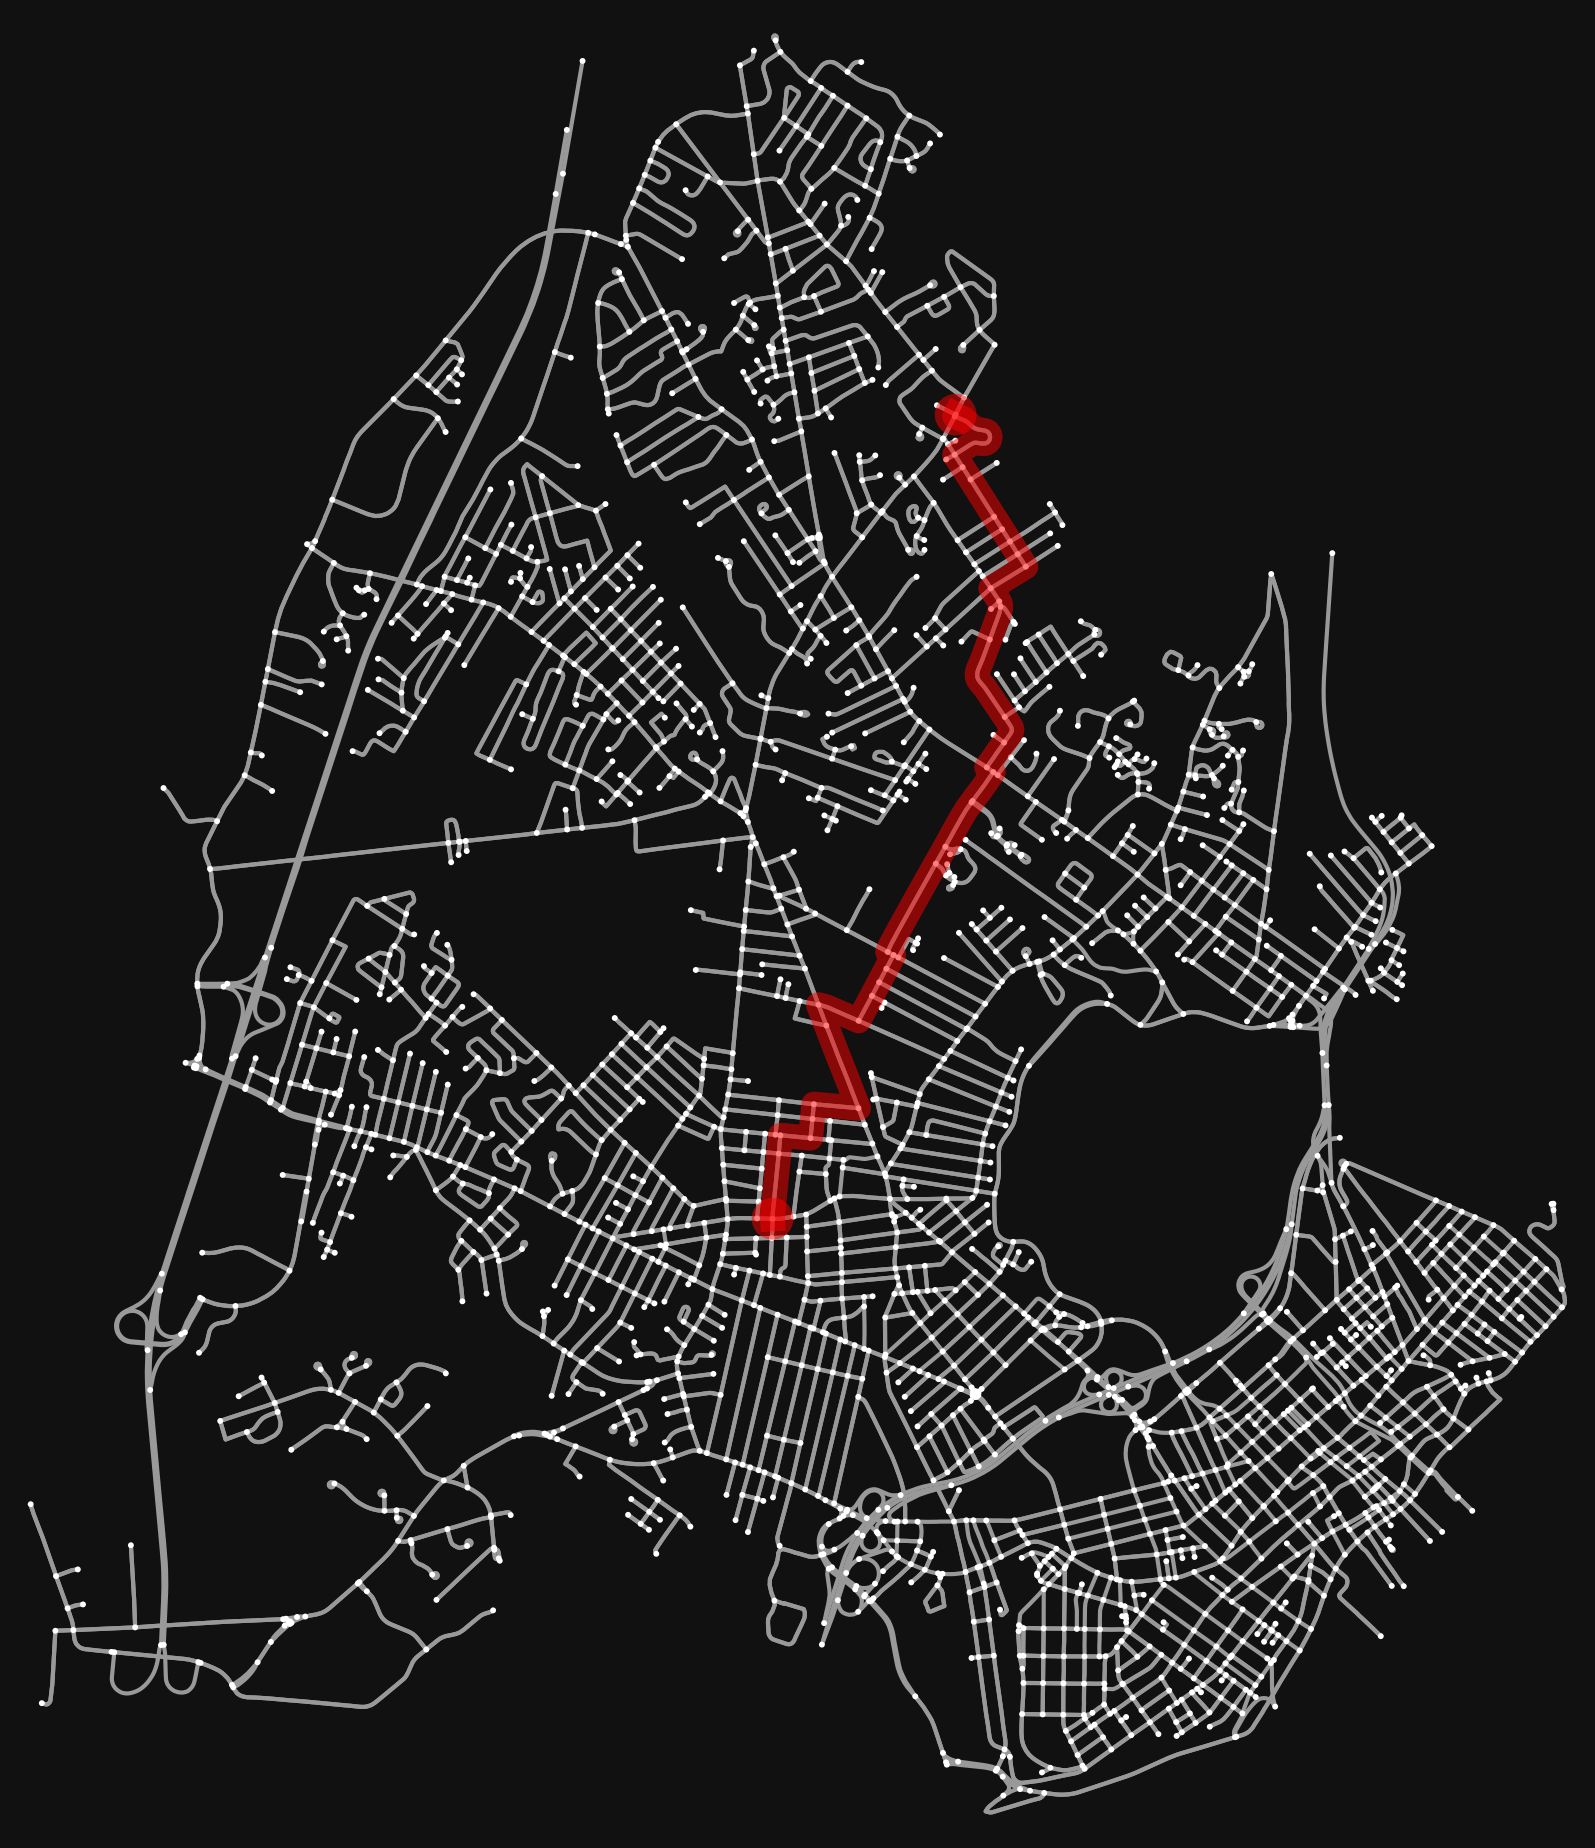
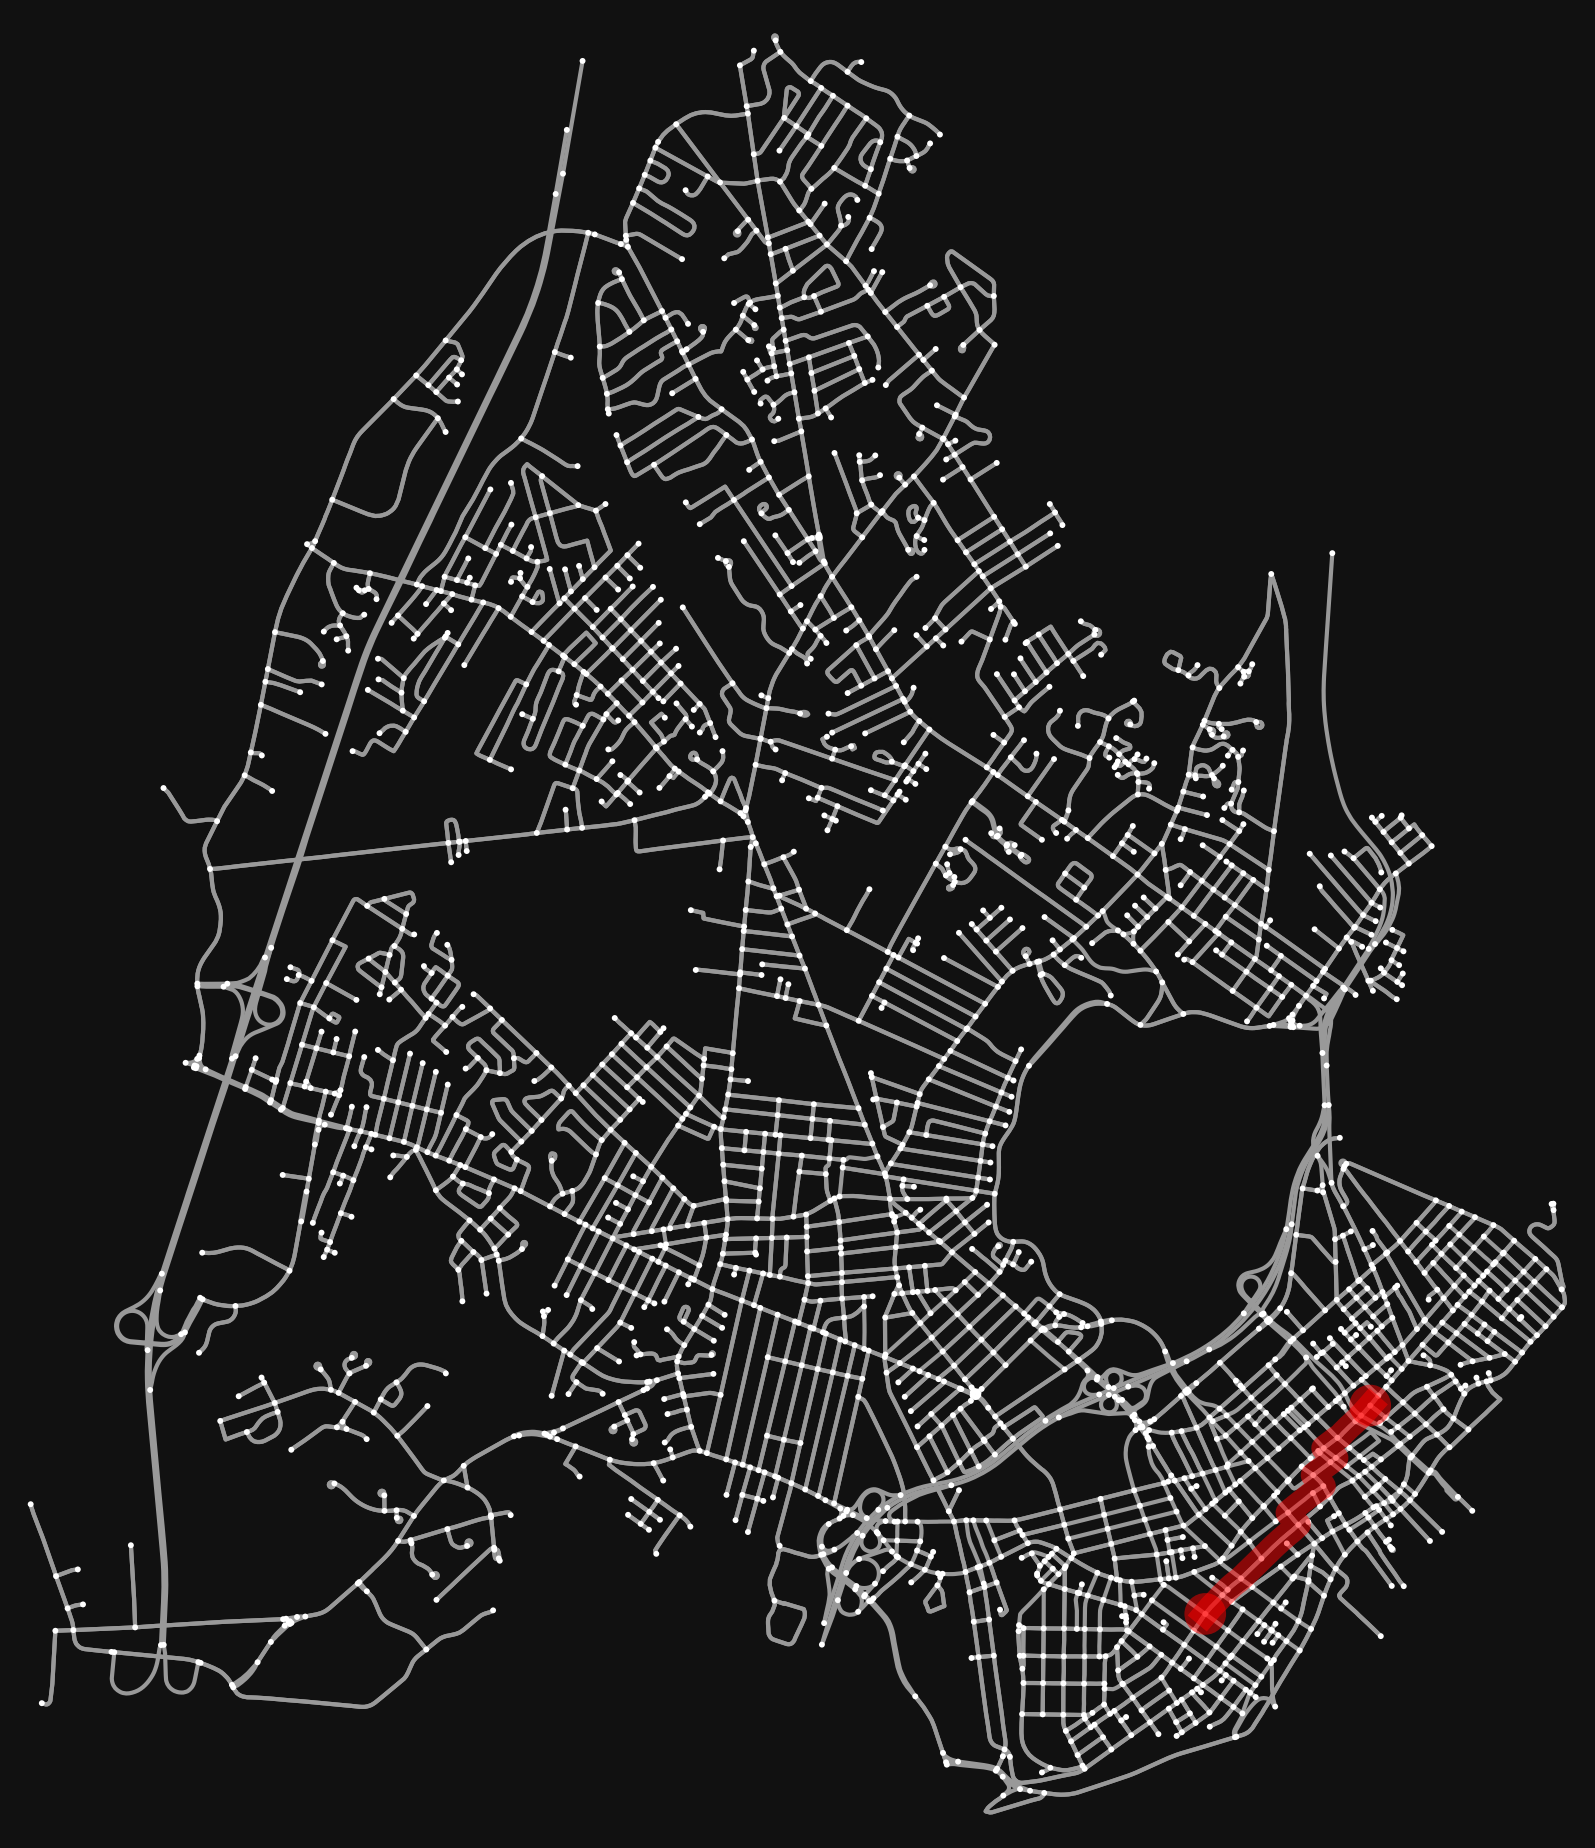
Final

Changed region(s): [[0.4608, 0.2159, 0.6451, 0.6786], [0.768, 0.7403, 0.8909, 0.8636], [0.7373, 0.8636, 0.768, 0.8945]]

diff --git a/app.py b/app.py
@@ -296,7 +296,7 @@ def find_routes(g, source, target, weight='travel_time'):
 
 
 def plot_one_route(g, route, filepath, saveFig=False):
-    fig, ax = ox.plot_graph_route(g, route, route_linewidth=6, node_size=2, save=saveFig, filepath=filepath)
+    fig, ax = ox.plot_graph_route(g, route, route_linewidth=6, node_size=2, save=saveFig, filepath=filepath, close=False, show=False)
 
 @app.route('/navigation/<doctor_name>', methods=['GET'])
 def navigation(doctor_name):
@@ -337,7 +337,6 @@ def navigation(doctor_name):
     # Now you have lat_float and lng_float as floats
     target_loc = (lat_float, lng_float)
     cur.close()
-    print(target_loc, source_loc,sep="\n")
     source = get_nearest_node(city_graph, source_loc[0], source_loc[1])  # Patient location
     target = get_nearest_node(city_graph, target_loc[0], target_loc[1])  # Doctor's location
 
